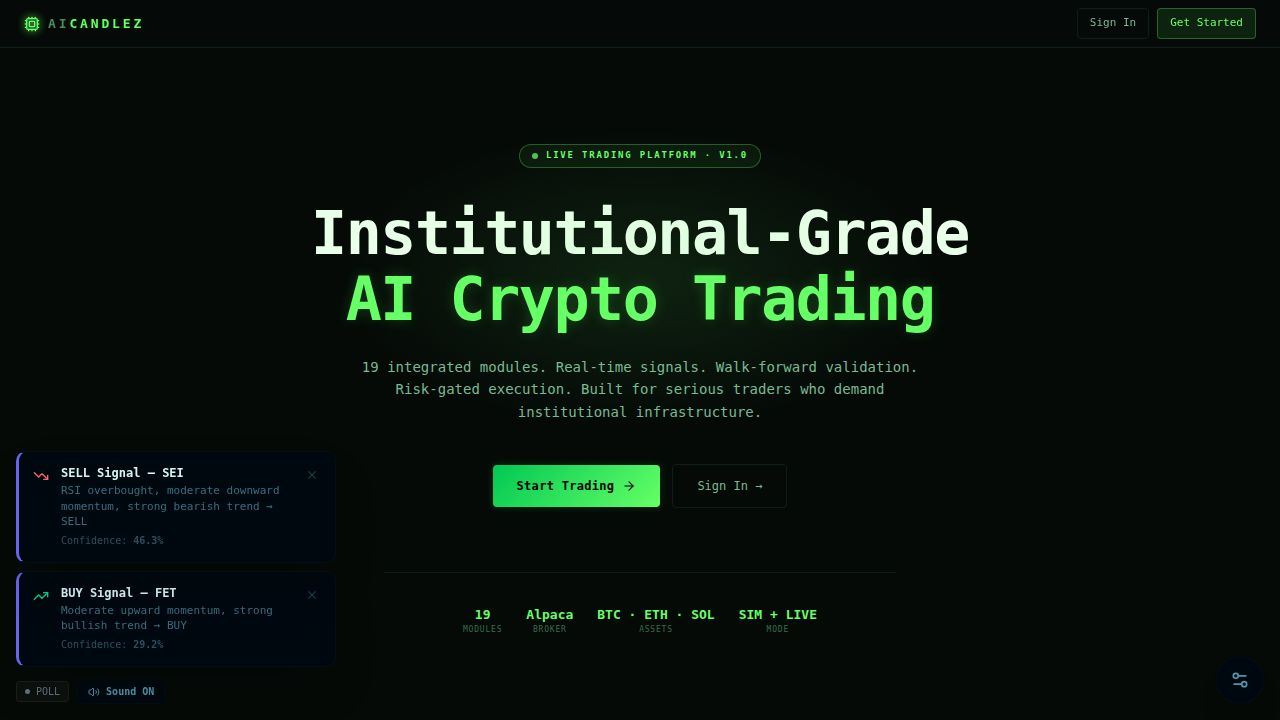
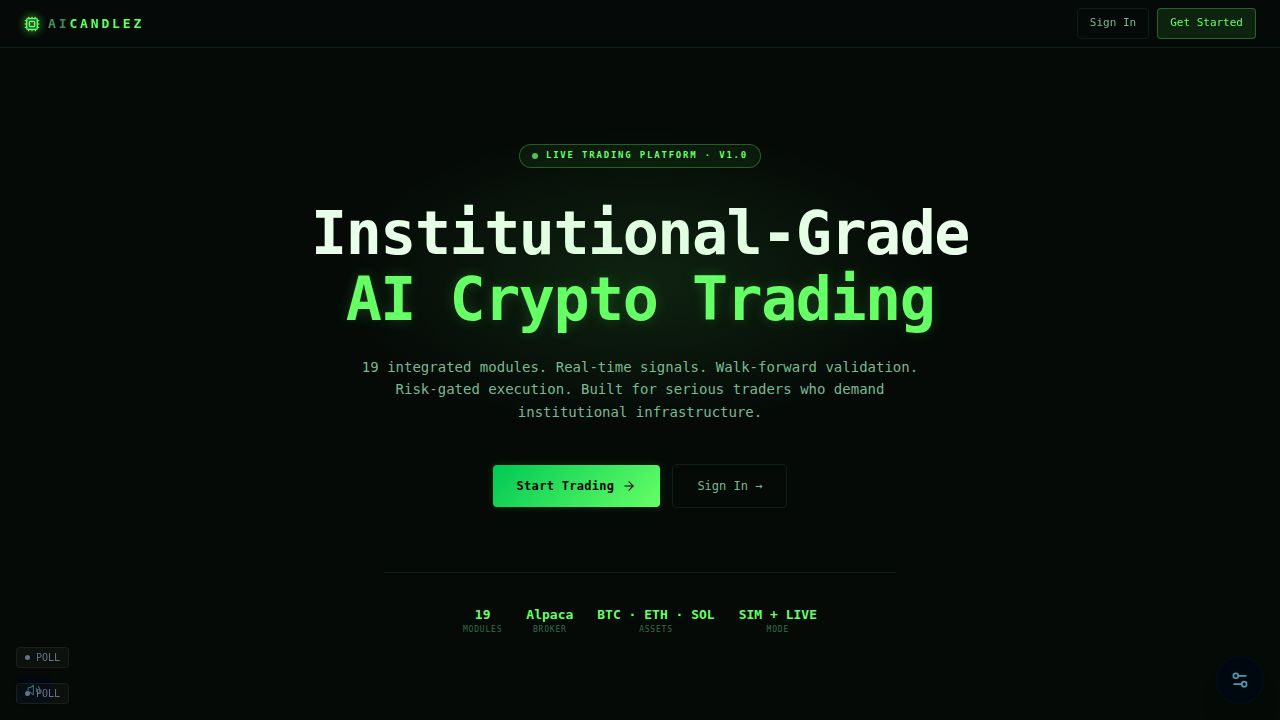
Surface liquidity-guard diagnostics on customer portal
Task: admin saw "LIQUIDITY PROTECTED / AI PAUSED" on the dashboard with
no visibility into WHY. Add diagnostic telemetry so the dashboard
displays the liquidity-guard threshold, available buying power, reason
code, and the values being compared.

Diagnosis: the visible block comes from the client-side
computeLiquidityState (fed live equity, 0.5% fee, max($20,5%) cushion)
in EnableLiveAITradingBar/TradeSizeStrip. The authoritative server gate
(GET /api/user/ai-trading/liquidity, mirroring execution-side 0LIQ) uses
sim_accounts.cashBalance, 1% fee, $5 cushion — and already returned the
full breakdown, but the dashboard dropped those fields and showed only a
generic message. Admin/super-admin bypass the gate on execution.

Changes (display-only, no gate/behavior change):
- computeLiquidityState/LiquidityState: expose fees, safety, reserved,
  shortfall (already computed internally).
- TradeSizeStrip: add wrapping diagnostic lines (REASON / THRESHOLD /
  BUYING POWER / SHORTFALL + CALC breakdown with comparison).
- liquidityStatus useQuery type: add optional server fields already
  returned (availableCashUsd, requiredCashUsd, feeBufferPct,
  safetyCushionUsd, reasonCode, isAdmin).
- Bottom server strip: "LIQUIDITY GUARD · SERVER" label + second row with
  authoritative threshold/buying-power/reason/calc; ADMIN BYPASS note
  when isAdmin; cash calc suppressed in plan_max_positions_reached state
  (requiredCashUsd=0 by policy) to avoid a contradictory "= $0.00".
[…]

diff --git a/artifacts/trading-dashboard/src/components/portal/PortalCustomerShell.tsx b/artifacts/trading-dashboard/src/components/portal/PortalCustomerShell.tsx
@@ -3664,6 +3664,14 @@ interface LiquidityState {
   required:       number;
   /** Cash projected to remain after currently-open slots reserve capital. */
   available:      number;
+  /** Round-trip fee envelope component of `required` (USD). */
+  fees:           number;
+  /** Absolute safety cushion component of `required` (USD). */
+  safety:         number;
+  /** Capital already reserved by currently-open slots (USD). */
+  reserved:       number;
+  /** Shortfall when blocked (`required - available`, floored at 0). */
+  shortfall:      number;
   /** True when new entries must be blocked to preserve the safety cushion. */
   blocked:        boolean;
 }
@@ -3684,7 +3692,8 @@ function computeLiquidityState(
   const reserved  = openPaper * tradeSize;
   const available = Math.max(0, equityUsd - reserved);
   const blocked   = remainingSlots > 0 && available < required;
-  return { tradeSize, remainingSlots, required, available, blocked };
+  const shortfall = blocked ? Math.max(0, required - available) : 0;
+  return { tradeSize, remainingSlots, required, available, fees, safety, reserved, shortfall, blocked };
 }
 
 function TradeSizeStrip({
@@ -3695,6 +3704,10 @@ function TradeSizeStrip({
   disabled:  boolean;
   liquidity: LiquidityState;
 }) {
+  const fmtUsd = (n: number) =>
+    Number.isFinite(n)
+      ? `$${n.toLocaleString("en-US", { minimumFractionDigits: 2, maximumFractionDigits: 2 })}`
+      : "—";
   const subline = liquidity.blocked
     ? `LIQUIDITY PROTECTED  ·  AI paused new entries to preserve fee/cash cushion`
     : `AI risks up to $${liquidity.tradeSize} per entry  ·  ${liquidity.remainingSlots} slot${liquidity.remainingSlots === 1 ? "" : "s"} available  ·  cushion ${liquidity.available >= liquidity.required ? "OK" : "LOW"}`;
@@ -3703,6 +3716,20 @@ function TradeSizeStrip({
     : liquidity.available >= liquidity.required
       ? "rgba(214,255,214,0.85)"
       : T.AMBER;
+  // Diagnostic breakdown — exposes the exact numbers the cushion gate
+  // compares so the customer (and admins previewing the customer shell)
+  // can see WHY new entries are paused, not just that they are. Always
+  // rendered; amber-tinted when the gate is active.
+  const diagReason = liquidity.blocked ? "LIQUIDITY_PROTECTED" : "OK";
+  const diagLine =
+    `REASON ${diagReason}  ·  THRESHOLD ${fmtUsd(liquidity.required)}  ·  ` +
+    `BUYING POWER ${fmtUsd(liquidity.available)}` +
+    (liquidity.blocked ? `  ·  SHORTFALL ${fmtUsd(liquidity.shortfall)}` : "");
+  const diagCalc =
+    `CALC ${fmtUsd(liquidity.tradeSize)} × ${liquidity.remainingSlots} slot${liquidity.remainingSlots === 1 ? "" : "s"} ` +
+    `+ fees ${fmtUsd(liquidity.fees)} + cushion ${fmtUsd(liquidity.safety)} = ${fmtUsd(liquidity.required)}` +
+    (liquidity.reserved > 0 ? `  ·  reserved ${fmtUsd(liquidity.reserved)}` : "") +
+    `  ·  ${liquidity.available < liquidity.required ? "available < required" : "available ≥ required"}`;
   return (
     <div style={{
       display: "flex", alignItems: "center", justifyContent: "space-between",
@@ -3727,6 +3754,21 @@ function TradeSizeStrip({
           overflow: "hidden", textOverflow: "ellipsis",
         }}>
           {subline}
+        </span>
+        {/* Liquidity-guard diagnostic breakdown — required vs available,
+            the calc components, and the exact comparison the gate makes. */}
+        <span style={{
+          fontSize: 9, fontWeight: 700,
+          color: liquidity.blocked ? T.AMBER : N.TEXT_3,
+          letterSpacing: "0.08em", whiteSpace: "normal", lineHeight: 1.45,
+        }}>
+          {diagLine}
+        </span>
+        <span style={{
+          fontSize: 8.5, fontWeight: 600, color: N.TEXT_3,
+          letterSpacing: "0.06em", whiteSpace: "normal", lineHeight: 1.45,
+        }}>
+          {diagCalc}
         </span>
       </div>
       <div role="radiogroup" aria-label="Trade size per entry" style={{
@@ -5673,6 +5715,12 @@ export function PortalCustomerShell() {
     openCount?:          number;
     tradingMode?:        "paper" | "live";
     remainingSlots:      number;
+    availableCashUsd?:   number;
+    requiredCashUsd?:    number;
+    feeBufferPct?:       number;
+    safetyCushionUsd?:   number;
+    reasonCode?:         "ok" | "plan_max_positions_reached" | "liquidity_protected";
+    isAdmin?:            boolean;
     liquidityProtected:  boolean;
     planCapacityReached: boolean;
     message:             string | null;
@@ -6208,6 +6256,9 @@ export function PortalCustomerShell() {
           color:       T.TEXT_2,
           flexWrap:    "wrap",
         }}>
+          <span style={{ color: T.TEXT_3, fontWeight: 700, letterSpacing: "0.16em" }}>
+            LIQUIDITY GUARD · SERVER
+          </span>
           <span>
             <span style={{ color: T.TEXT_3, marginRight: 6 }}>TRADE SIZE</span>
             <span style={{ color: T.NEON, fontWeight: 700 }}>
@@ -6248,6 +6299,79 @@ export function PortalCustomerShell() {
                   : "OK"}
             </span>
           </span>
+          {/* Authoritative diagnostic breakdown — mirrors the execution-side
+              0LIQ gate exactly (same lib/liquidityGuard.ts math). Surfaces
+              the threshold, buying power, reason code, and the values being
+              compared so the guard state is never opaque. `availableCashUsd`
+              here = the customer's sim cash balance (NOT live exchange
+              equity) — that is the input the server gate actually uses. */}
+          {(() => {
+            const fmtUsd = (n: number | undefined) =>
+              typeof n === "number" && Number.isFinite(n)
+                ? `$${n.toLocaleString("en-US", { minimumFractionDigits: 2, maximumFractionDigits: 2 })}`
+                : "—";
+            const req = liquidityStatus.requiredCashUsd;
+            const avail = liquidityStatus.availableCashUsd;
+            const feePct = liquidityStatus.feeBufferPct;
+            const cushion = liquidityStatus.safetyCushionUsd;
+            const reason = liquidityStatus.reasonCode
+              ?? (liquidityStatus.liquidityProtected
+                ? "liquidity_protected"
+                : liquidityStatus.planCapacityReached
+                  ? "plan_max_positions_reached"
+                  : "ok");
+            const shortfall = typeof req === "number" && typeof avail === "number"
+              ? Math.max(0, req - avail)
+              : undefined;
+            const accent = liquidityStatus.liquidityProtected
+              ? "#FF9400"
+              : liquidityStatus.planCapacityReached
+                ? "#FF5050"
+                : T.NEON;
+            const cmp = typeof req === "number" && typeof avail === "number"
+              ? (avail < req ? "available < required" : "available ≥ required")
+              : "";
+            // In the plan-capacity-reached state the gate returns
+            // requiredCashUsd=0 (cash math is not the binding constraint),
+            // so suppress the cash calc to avoid a contradictory "= $0.00".
+            const calc = liquidityStatus.planCapacityReached
+              ? "PLAN CAP GATE · cash calc not applicable (close a position to free a slot)"
+              : typeof req === "number"
+                ? `${fmtUsd(liquidityStatus.tradeSizeUsd)} × ${liquidityStatus.remainingSlots} slot${liquidityStatus.remainingSlots === 1 ? "" : "s"}`
+                  + ` × (1 + ${typeof feePct === "number" ? (feePct * 100).toFixed(1) : "—"}% fee) + ${fmtUsd(cushion)} cushion = ${fmtUsd(req)}`
+                : "";
+            const Field = ({ label, value, color }: { label: string; value: string; color?: string }) => (
+              <span style={{ whiteSpace: "nowrap" }}>
+                <span style={{ color: T.TEXT_3, marginRight: 6 }}>{label}</span>
+                <span style={{ color: color ?? T.TEXT_1, fontWeight: 700 }}>{value}</span>
+              </span>
+            );
+            return (
+              <span style={{
+                flexBasis: "100%", display: "flex", flexWrap: "wrap",
+                alignItems: "center", gap: 16, marginTop: 2,
+                paddingTop: 6, borderTop: "1px solid rgba(255,255,255,0.06)",
+                fontSize: 9.5, letterSpacing: "0.08em",
+              }}>
+                <Field label="REASON" value={reason} color={accent} />
+                <Field label="THRESHOLD" value={fmtUsd(req)} color={accent} />
+                <Field label="BUYING POWER" value={fmtUsd(avail)} />
+                {liquidityStatus.liquidityProtected && (
+                  <Field label="SHORTFALL" value={fmtUsd(shortfall)} color={accent} />
+                )}
+                {calc && (
+                  <span style={{ color: T.TEXT_3, whiteSpace: "normal", minWidth: 0 }}>
+                    CALC {calc}{cmp ? `  ·  ${cmp}` : ""}
+                  </span>
+                )}
+                {liquidityStatus.isAdmin && (
+                  <span style={{ color: "#5AB0FF", fontWeight: 700, whiteSpace: "nowrap" }}>
+                    ADMIN BYPASS · GUARD NOT ENFORCED ON YOUR LIVE ORDERS
+                  </span>
+                )}
+              </span>
+            );
+          })()}
         </div>
       )}
       {/* PHASE 9 — Candidate B (UserDashboard) graduated chrome.